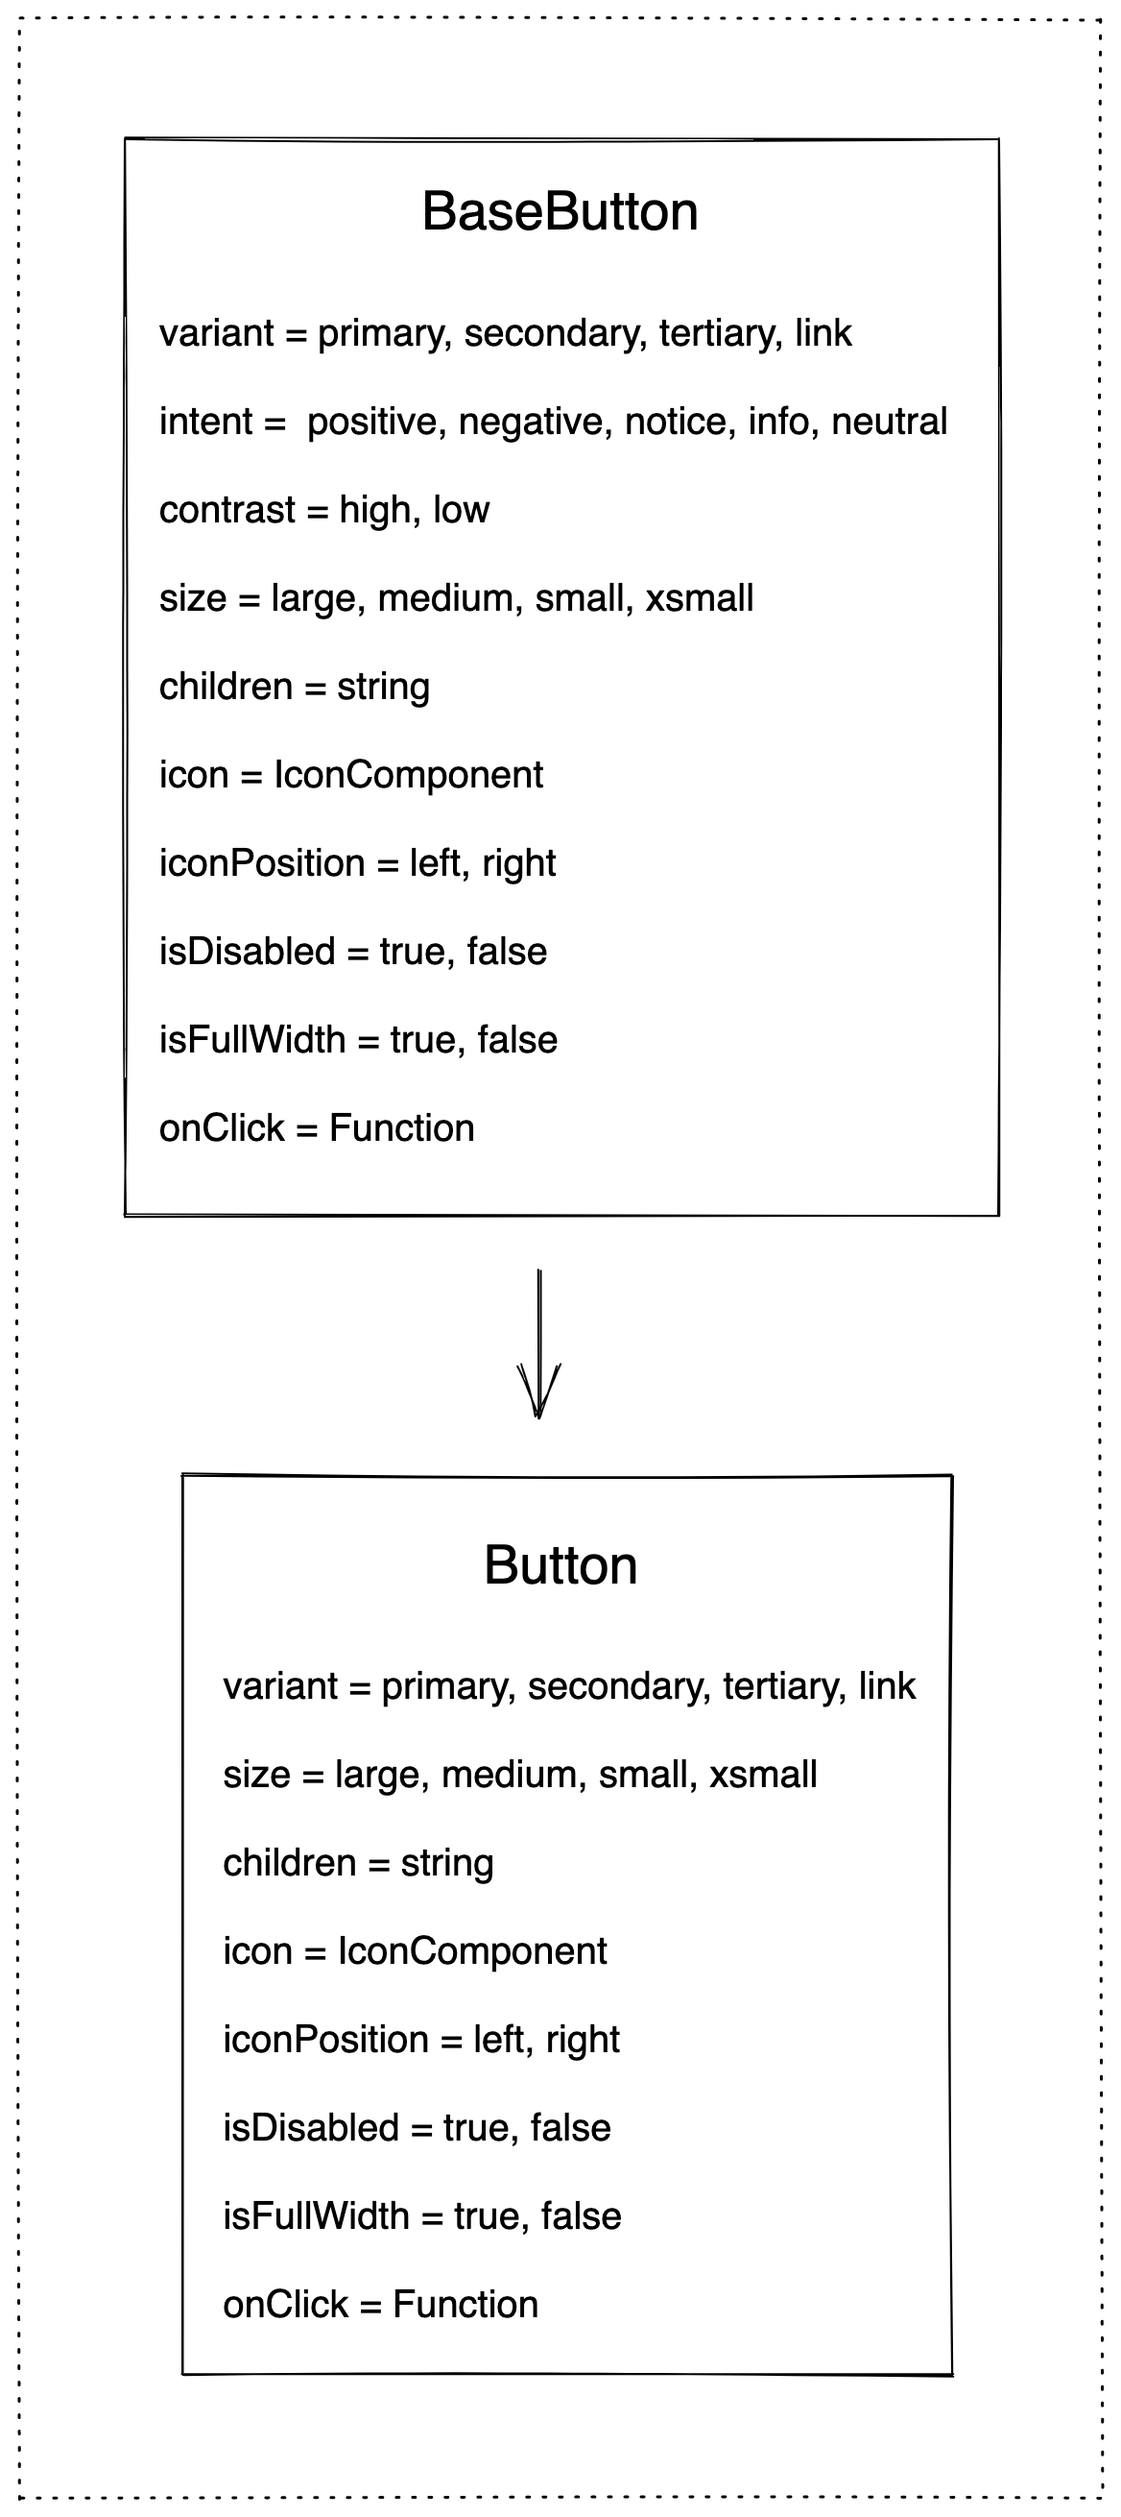
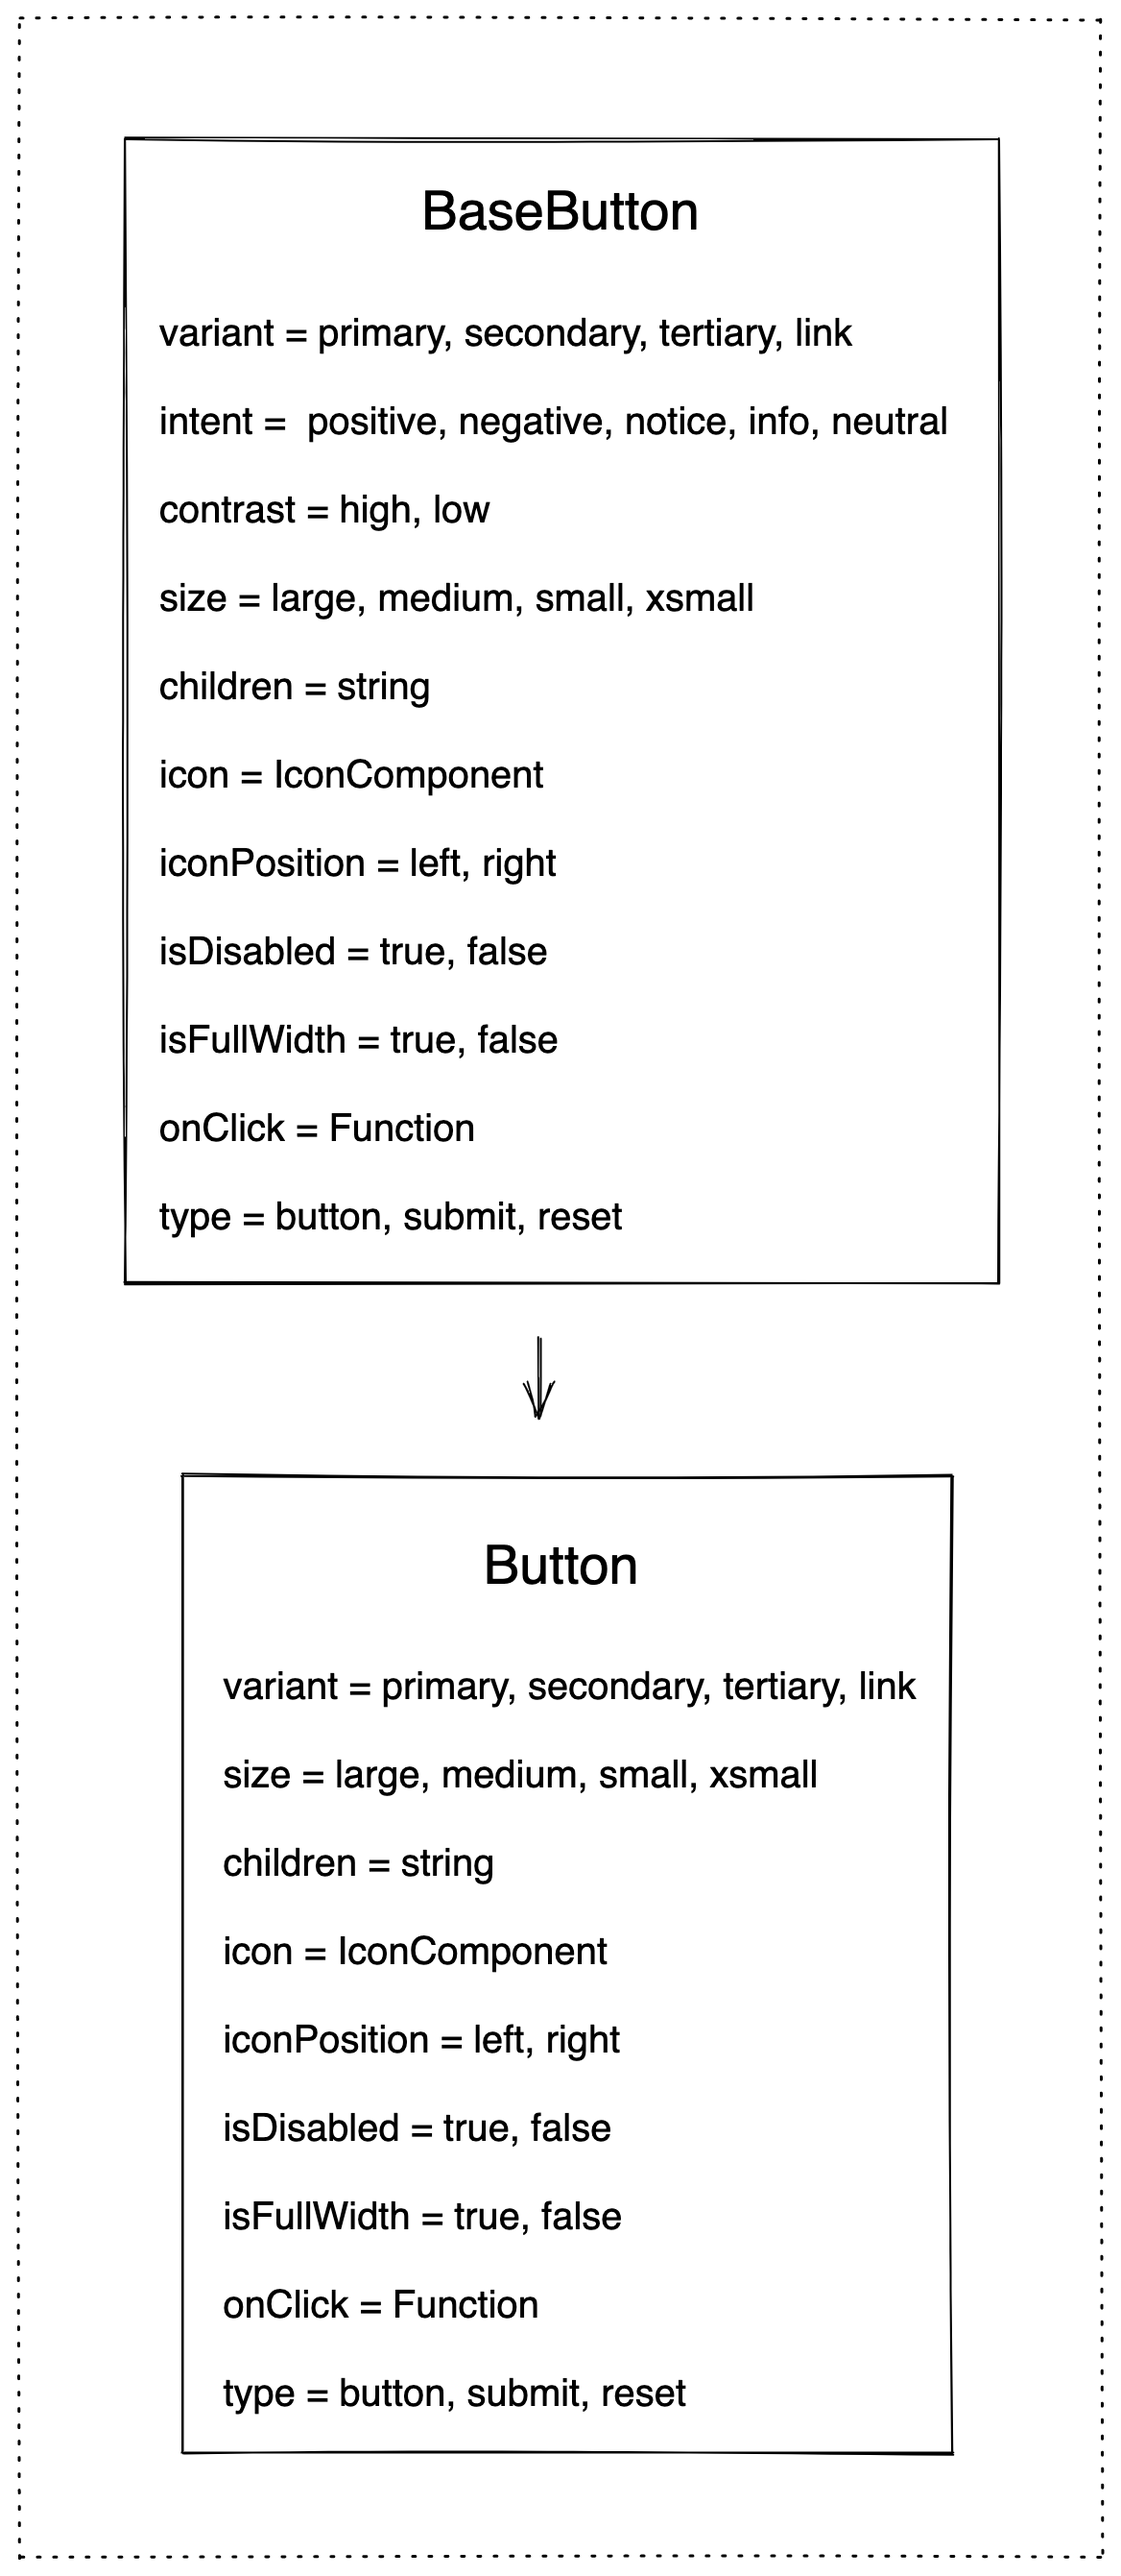
chore: add type prop

diff --git a/packages/blade/src/components/Button/_decisions/decisions.md b/packages/blade/src/components/Button/_decisions/decisions.md
@@ -31,6 +31,9 @@
       -  Should we call this `fullWidth` instead?
    -  **`onClick`**: `Function`
       -  **default**: `undefined`
+   -  **`type`**: `button` | `submit` | `reset`
+      -  **default**: `button`
+      -  This prop will be ignored for react-native
 
 ## Button Component
 - This will be the Button component that is exposed to our consumers and will be a wrapper on top of `BaseButton` component
@@ -52,6 +55,9 @@
       -  Should we call this `fullWidth` instead?
    -  **`onClick`**: `Function`
       -  **default**: `undefined`
+   -  **`type`**: `button` | `submit` | `reset`
+      -  **default**: `button`
+      -  This prop will be ignored for react-native
 
 ## Component Breakdown
 
